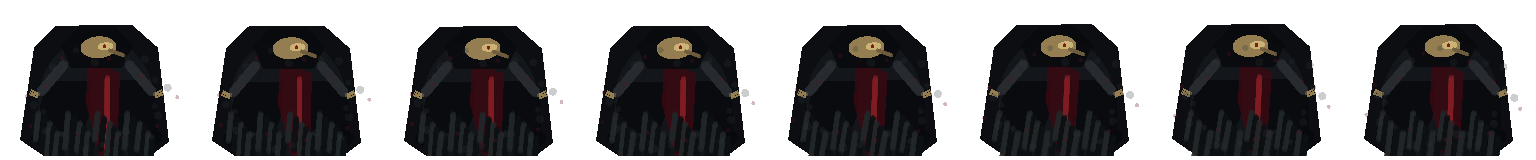
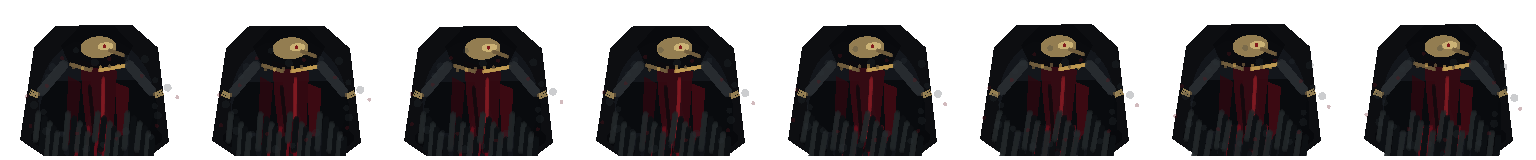
fix: refine gothic boss sprite

diff --git a/tools/generateEnemyBossSheets.py b/tools/generateEnemyBossSheets.py
@@ -193,14 +193,37 @@ def draw_boss_frame(pixels: bytearray, sheet_width: int, x_offset: int, fw: int,
     draw_rotated_ellipse(pixels, sheet_width, x_offset, cx + 35, cy + 13, 25, 52, -0.34, (8, 10, 13, 240), fw, fh)
 
     crimson_fold = [
-        (cx - 8, cy - 33),
-        (cx + 24, cy - 20),
-        (cx + 20 + sway, cy + 57),
-        (cx + 4, cy + 66),
-        (cx - 10, cy + 10),
+        (cx - 16, cy - 33),
+        (cx + 21, cy - 22),
+        (cx + 16 + sway, cy + 42),
+        (cx + 8, cy + 64),
+        (cx - 8, cy + 50),
+        (cx - 13, cy + 8),
     ]
     draw_polygon(pixels, sheet_width, x_offset, crimson_fold, DEEP_CRIMSON, fw, fh)
-    draw_limb(pixels, sheet_width, x_offset, cx + 11, cy - 15, cx + 9 + sway, cy + 55, 3, (128, 28, 34, 128), fw, fh)
+    draw_polygon(
+        pixels,
+        sheet_width,
+        x_offset,
+        [(cx - 28, cy - 17), (cx - 15, cy - 10), (cx - 20 + sway * 0.3, cy + 45), (cx - 30, cy + 54)],
+        (46, 7, 15, 190),
+        fw,
+        fh,
+    )
+    draw_polygon(
+        pixels,
+        sheet_width,
+        x_offset,
+        [(cx + 20, cy - 10), (cx + 33, cy - 5), (cx + 31 + sway * 0.4, cy + 38), (cx + 21, cy + 52)],
+        (82, 10, 20, 174),
+        fw,
+        fh,
+    )
+    draw_limb(pixels, sheet_width, x_offset, cx + 7, cy - 15, cx + 4 + sway, cy + 56, 2, (132, 27, 34, 118), fw, fh)
+    draw_limb(pixels, sheet_width, x_offset, cx - 7, cy - 7, cx - 1 + sway * 0.5, cy + 58, 2, (19, 9, 13, 150), fw, fh)
+    for tear in range(5):
+        tear_x = cx - 18 + tear * 9 + math.sin(frame * 0.4 + tear) * 1.1
+        draw_limb(pixels, sheet_width, x_offset, tear_x, cy + 34, tear_x - 3 + sway * 0.25, cy + 62 + (tear % 2) * 7, 2, (104, 15, 27, 116), fw, fh)
 
     hood = [
         (cx - 35, cy - 47),
@@ -216,6 +239,12 @@ def draw_boss_frame(pixels: bytearray, sheet_width: int, x_offset: int, fw: int,
     draw_rotated_ellipse(pixels, sheet_width, x_offset, cx + 9, mask_y - 1, 8, 4, -0.08, (218, 192, 126, 202), fw, fh)
     draw_circle(pixels, sheet_width, x_offset, cx + 8, mask_y - 1, 2, (122, 11, 18, 230), fw, fh)
     draw_limb(pixels, sheet_width, x_offset, cx + 13, mask_y + 3, cx + 27, mask_y + 8, 2, BONE_DARK, fw, fh)
+    draw_limb(pixels, sheet_width, x_offset, cx - 26, mask_y + 17, cx - 6, mask_y + 23, 2, BONE_DARK, fw, fh)
+    draw_limb(pixels, sheet_width, x_offset, cx + 3, mask_y + 23, cx + 31, mask_y + 18, 2, BRASS, fw, fh)
+    for bead in range(6):
+        bead_x = cx - 23 + bead * 9
+        bead_y = mask_y + 20 + math.sin(frame * 0.5 + bead) * 1.4
+        draw_circle(pixels, sheet_width, x_offset, bead_x, bead_y, 2, BRASS if bead % 2 else BONE_DARK, fw, fh)
 
     for i in range(24):
         tail_x = cx - 58 + i * 5.0 + math.sin(frame * 0.4 + i) * 1.4
